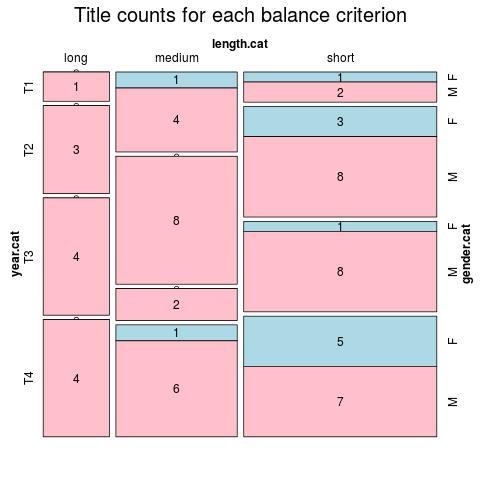
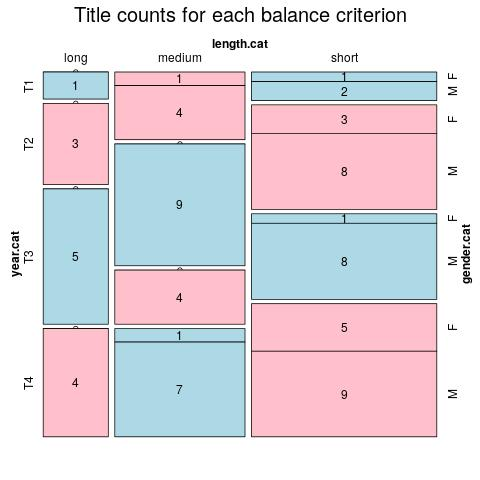
update portuguese

diff --git a/ELTeC/por/index.html b/ELTeC/por/index.html
@@ -5,11 +5,10 @@
       <title>Contents of ELTeC-por</title>
    </head>
    <body>
-      <h4>On 2019-11-16 por has 69 texts containing 4288640 words</h4>
+      <h4>On 2020-01-27 por has 76 texts containing 4743287 words</h4>
       <p class="graphic"><img src="mosaic.png"><input type="button" value="Explainer" onclick="window.open('../explainer.html','popUpWindow',         'height=600,width=500,left=100,top=100,resizable=yes,         scrollbars=yes,toolbar=no,menubar=no,location=no,directories=no, status=yes');"></p>
       <p class="explain">Click on a column heading to sort. Click on a text identifier to
-         read the text (may not work in older browsers).
-      </p>
+         read the text (may not work in older browsers).</p>
       <table class="catalogue" id="theTable">
          <tr class="label">
             <th onclick="sortTable(0)">Identifier</th>
@@ -816,6 +815,18 @@
             <td>unspecified</td>
          </tr>
          <tr>
+            <td><a href="POR0067.html">POR0067</a></td>
+            <td>eltec-1</td>
+            <td></td>
+            <td>69683</td>
+            <td>(medium) </td>
+            <td>1867 (T2) </td>
+            <td>Febo Moniz</td>
+            <td>Oliveira Martins, Joaquim Pedro de (1845-1894)</td>
+            <td>M</td>
+            <td>low</td>
+         </tr>
+         <tr>
             <td><a href="POR0068.html">POR0068</a></td>
             <td>eltec-1</td>
             <td></td>
@@ -850,6 +861,78 @@
             <td>Bettencourt, Matilde Isabel de Santana e Vasconcelos Moniz (1805-1888)</td>
             <td>F</td>
             <td>low</td>
+         </tr>
+         <tr>
+            <td><a href="POR0071.html">POR0071</a></td>
+            <td>eltec-1</td>
+            <td></td>
+            <td>68424</td>
+            <td>(medium) </td>
+            <td>1906 (T4) </td>
+            <td>O trovador da Infanta</td>
+            <td>Oliveira Mascarenhas, Joaquim Augusto de (1847-1918)</td>
+            <td>M</td>
+            <td>low</td>
+         </tr>
+         <tr>
+            <td><a href="POR0072.html">POR0072</a></td>
+            <td>eltec-1</td>
+            <td></td>
+            <td>67549</td>
+            <td>(medium) </td>
+            <td>1900 (T3) </td>
+            <td>Os Caramurús</td>
+            <td>Lobo de Ávila, Artur (1855-1945)</td>
+            <td>M</td>
+            <td>low</td>
+         </tr>
+         <tr>
+            <td><a href="POR0073.html">POR0073</a></td>
+            <td>eltec-1</td>
+            <td></td>
+            <td>30607</td>
+            <td>(short) </td>
+            <td>1907 (T4) </td>
+            <td>Tríplice Aliança</td>
+            <td>Azevedo, Raul (?-?)</td>
+            <td>M</td>
+            <td>low</td>
+         </tr>
+         <tr>
+            <td><a href="POR0074.html">POR0074</a></td>
+            <td>eltec-1</td>
+            <td></td>
+            <td>103676</td>
+            <td>(long) </td>
+            <td>1896 (T3) </td>
+            <td>A Mulata</td>
+            <td>Dias, Carlos Malheiro (1875-1941)</td>
+            <td>M</td>
+            <td>high</td>
+         </tr>
+         <tr>
+            <td><a href="POR0075.html">POR0075</a></td>
+            <td>eltec-1</td>
+            <td></td>
+            <td>58660</td>
+            <td>(short)  !!</td>
+            <td>1909 (T4) </td>
+            <td>Miss Kate</td>
+            <td>Velho, Cosme (-)</td>
+            <td>M</td>
+            <td>low</td>
+         </tr>
+         <tr>
+            <td><a href="POR0076.html">POR0076</a></td>
+            <td>eltec-1</td>
+            <td></td>
+            <td>56048</td>
+            <td>(medium) </td>
+            <td>1894 (T3) </td>
+            <td>No tempo dos francezes</td>
+            <td>Benevides, Francisco da Fonseca (1836-1911)</td>
+            <td>M</td>
+            <td>unspecified</td>
          </tr>
       </table><script>
                     function sortTable(n) {

diff --git a/ELTeC/por/POR0074.html b/ELTeC/por/POR0074.html
@@ -2,13 +2,13 @@
    <head>
       <meta http-equiv="Content-Type" content="text/html; charset=UTF-8">
       <link rel="stylesheet" href="../../css/cetei.css" media="all" title="no title" charset="utf-8">
-      <link type="application/tei+xml" rel="alternative" href="https://raw.githubusercontent.com/COST-ELTeC/ELTeC-por/master/level1/POR0074_MarONei_Caminho.xml"><script src="../../js/CETEI.js" charset="utf-8"></script><script type="text/javascript"> var ceteicean = new CETEI();
+      <link type="application/tei+xml" rel="alternative" href="https://raw.githubusercontent.com/COST-ELTeC/ELTeC-por/master/level1/POR0074_CarMDia_Mulata.xml"><script src="../../js/CETEI.js" charset="utf-8"></script><script type="text/javascript"> var ceteicean = new CETEI();
                 ceteicean.shadowCSS = "../../css/cetei.css";
                 ceteicean.getHTML5(
-                'https://raw.githubusercontent.com/COST-ELTeC/ELTeC-por/master/level1/POR0074_MarONei_Caminho.xml', 
+                'https://raw.githubusercontent.com/COST-ELTeC/ELTeC-por/master/level1/POR0074_CarMDia_Mulata.xml', 
                 function(data) {
                 document.getElementsByTagName("body")[0].appendChild(data);
-                });</script><title>Por bom caminho</title>
+                });</script><title>A Mulata: Edição para o ELTeC</title>
    </head>
    <body><a href="https://www.distant-reading.net/"><img src="../../media/distantreading.png" alt="logo"></a></body>
 </html>
